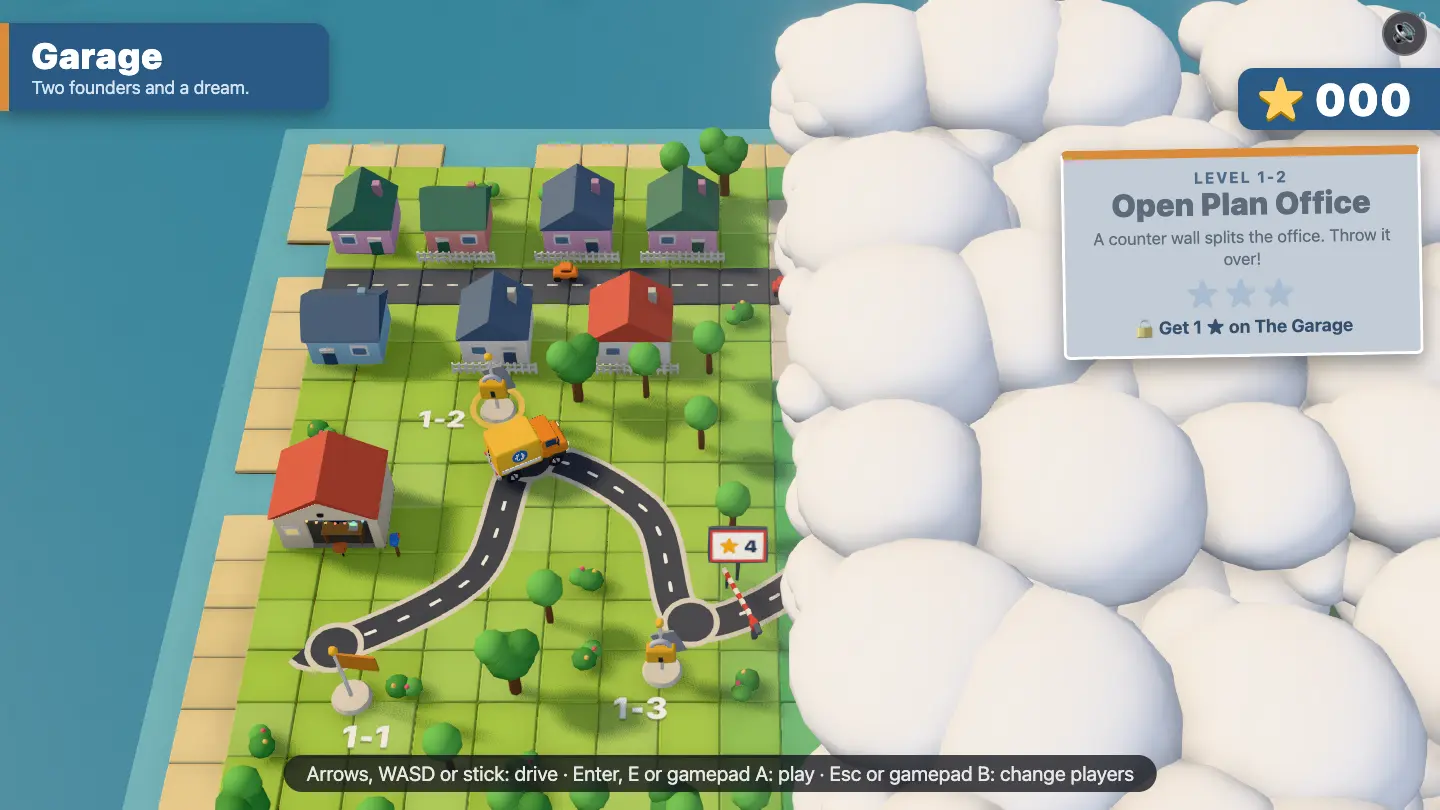
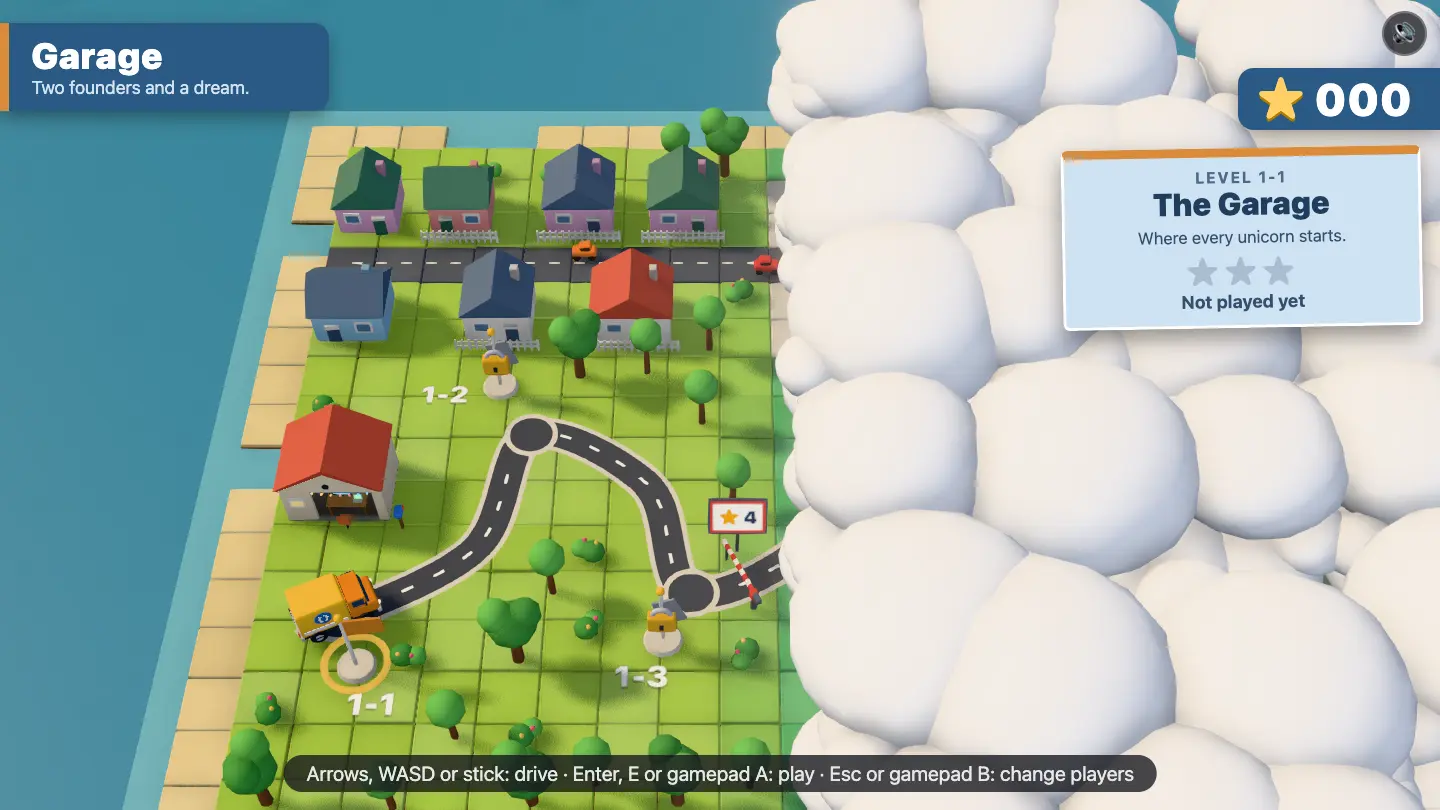
Retake the online lobby, and the level select with the van at the open Garage

diff --git a/scripts/screenshots.ts b/scripts/screenshots.ts
@@ -324,8 +324,7 @@ const SHOTS: Record<string, Shot> = {
   async 'screens/level-select'(page) {
     // A fresh save: later chapters still locked.
     await toLevelSelect(page, '');
-    // Drive to the second level: the van drives there and the map camera follows it.
-    await page.key('ArrowRight');
+    // The van parked at The Garage, the one open level.
     await sleep(1500);
     await page.shot('screens/level-select');
   },
